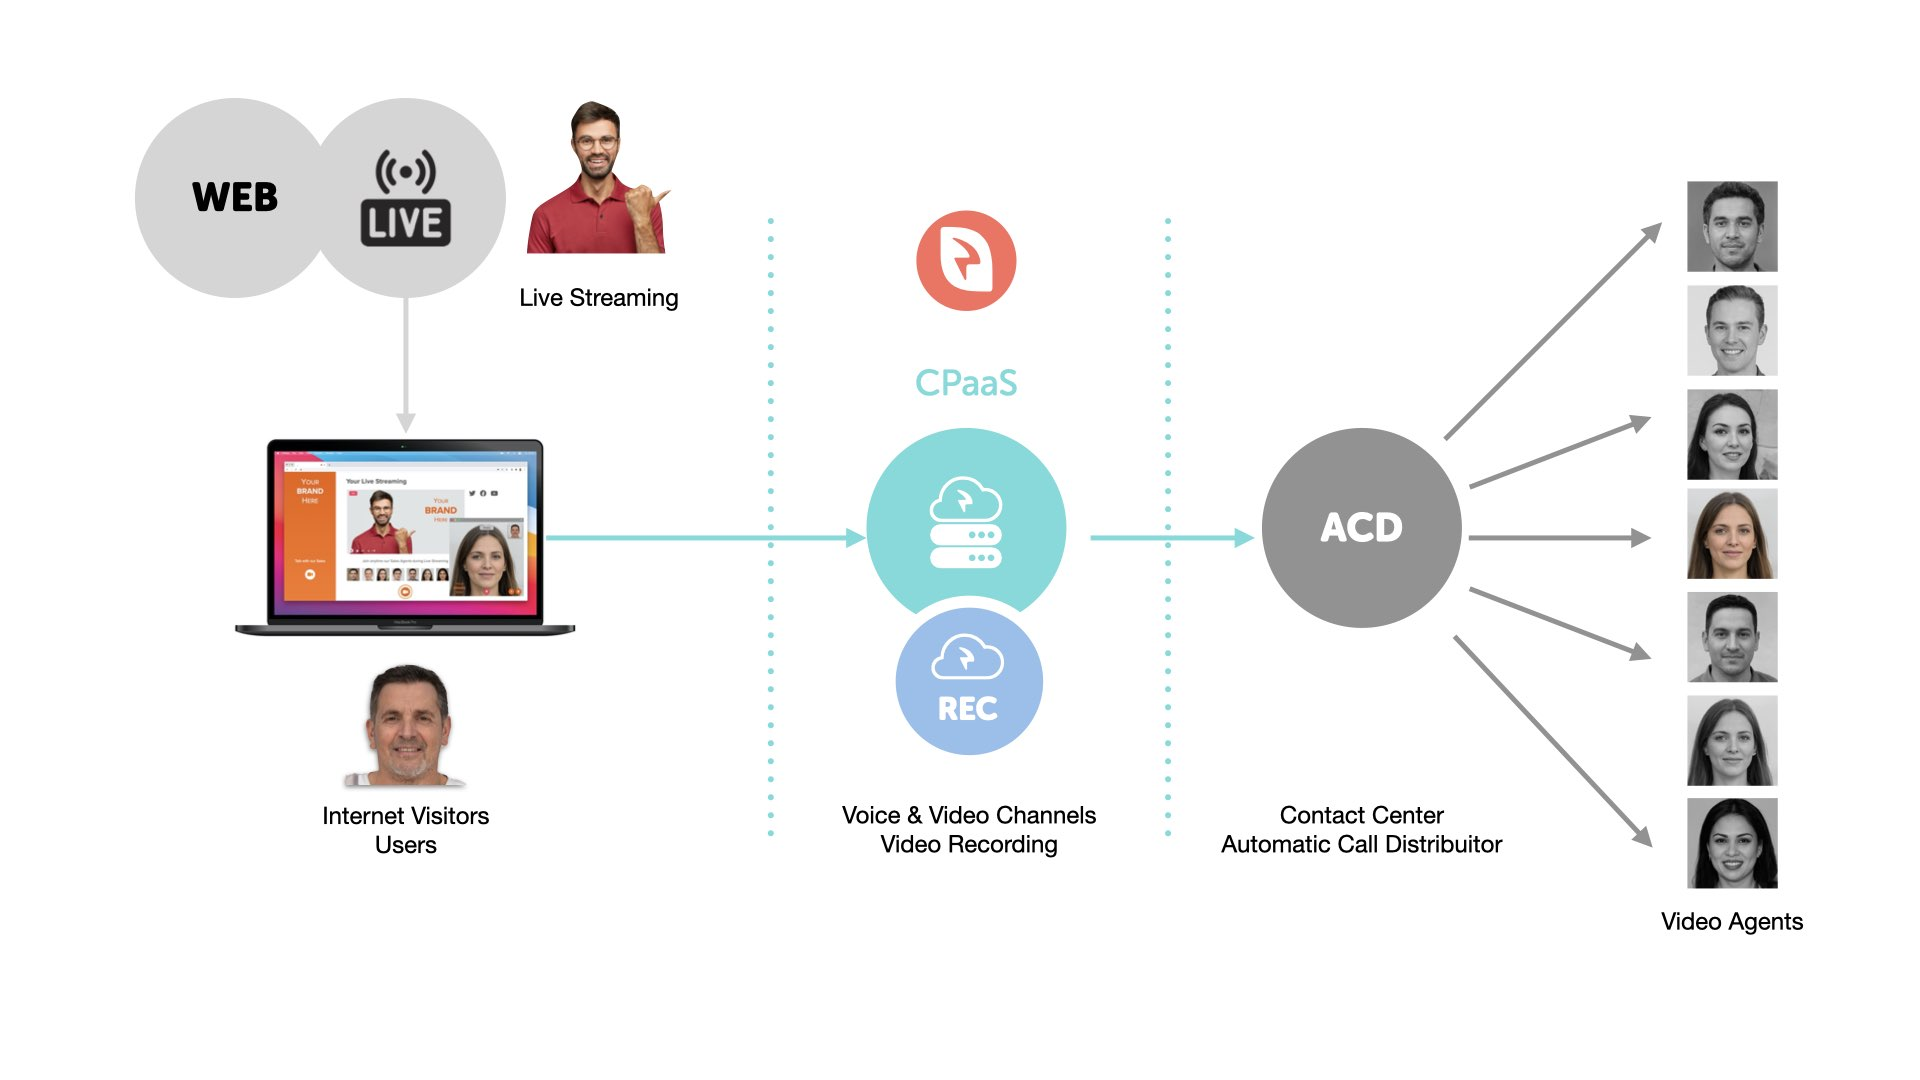
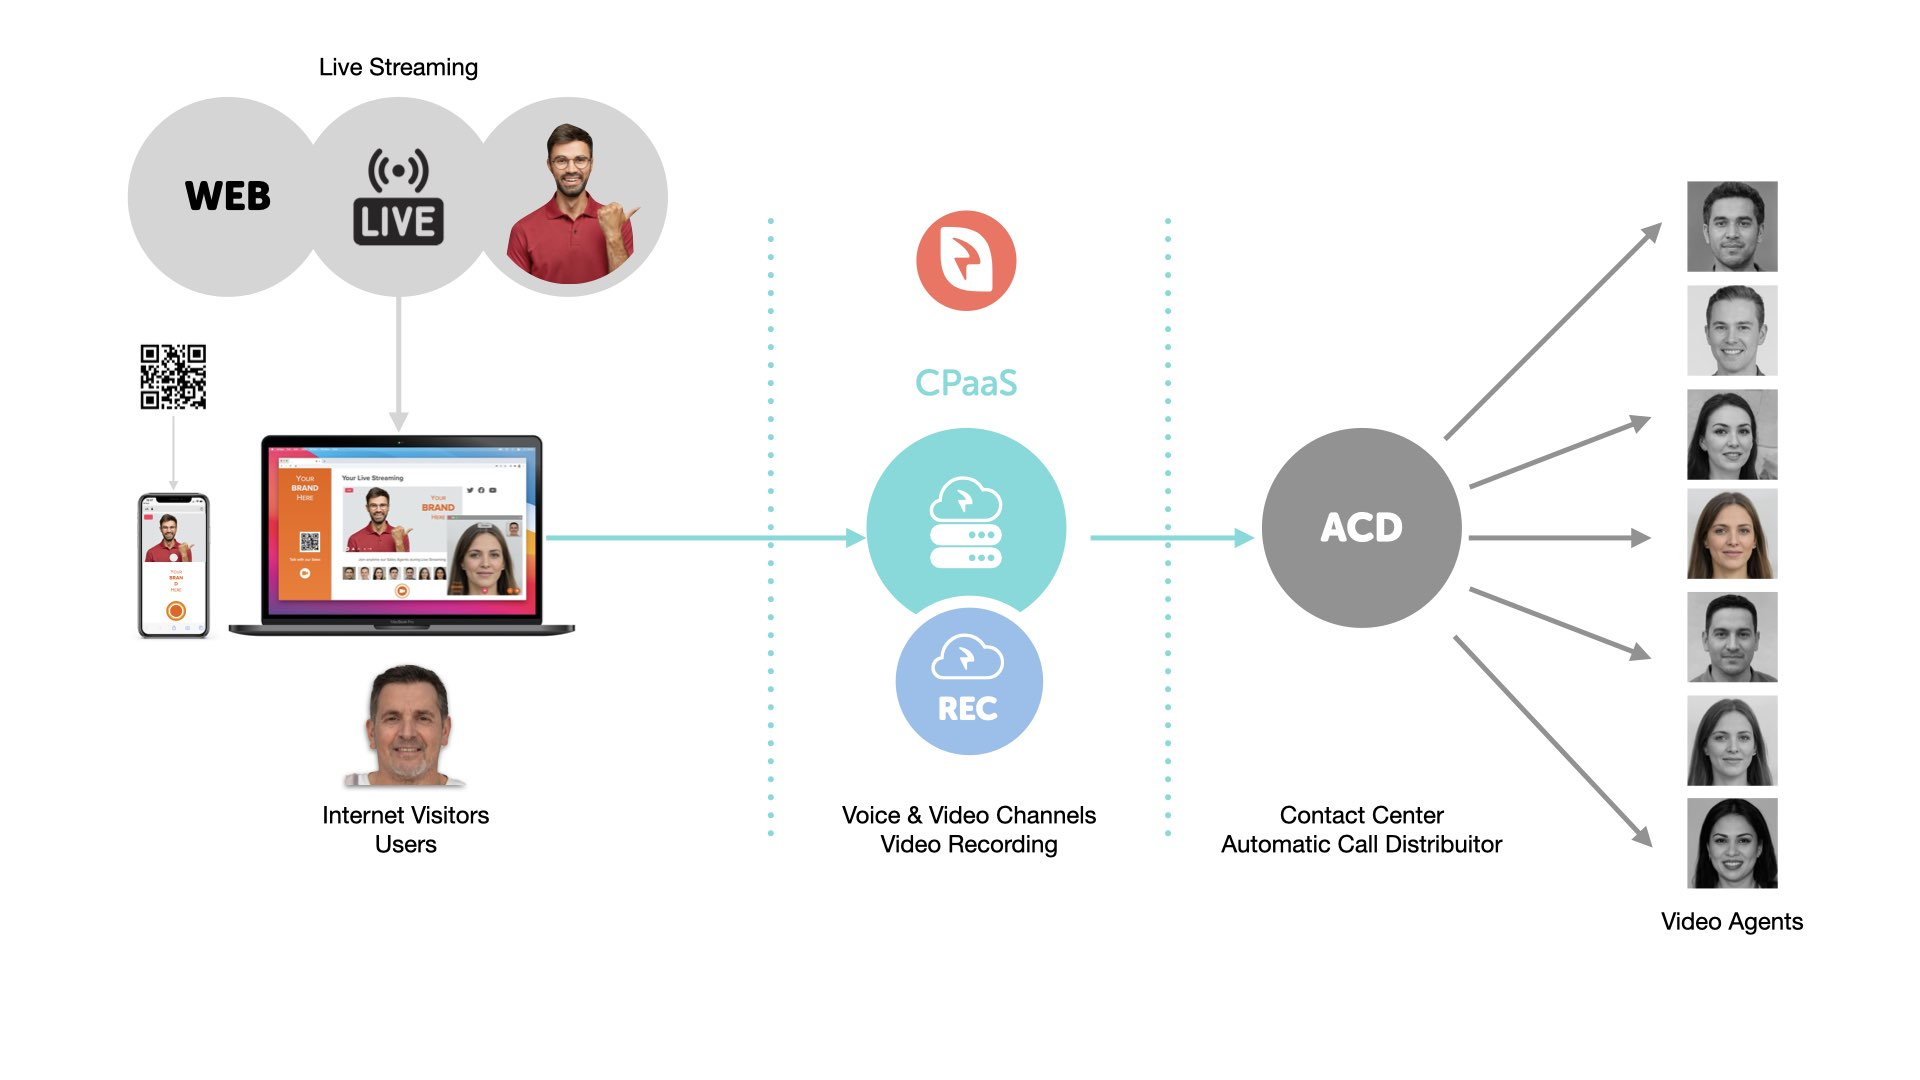
New Publish [07/11/2020 00:18]

diff --git a/post/marketing/landing-web-page-with-video-call-queueing/index.html b/post/marketing/landing-web-page-with-video-call-queueing/index.html
@@ -25,7 +25,7 @@
         <meta name="twitter:site" content="@https://twitter.com/ivrpowers" />
         <meta name="twitter:creator" content="@https://twitter.com/ivrpowers" />
         <meta name="twitter:title" content="Landing Page with Video Call Queueing" />
-        <meta name="twitter:description" content="Video RTC Use Case" />
+        <meta name="twitter:description" content="Use Case" />
         <meta name="twitter:url" content="https://blog.ivrpowers.com/post/marketing/landing-web-page-with-video-call-queueing/" />
     
 
@@ -41,7 +41,7 @@
     
 
     
-        <meta name="description" content="Video RTC Use Case" />
+        <meta name="description" content="Use Case" />
     
 
     
@@ -72,7 +72,7 @@
           "@id": "https://blog.ivrpowers.com/post/marketing/landing-web-page-with-video-call-queueing/"
         },
         "headline": "Landing Page with Video Call Queueing",
-        "description": "Video RTC Use Case",
+        "description": "Use Case",
         "author": {
             "@type": "Person",
             "name": "IVRPowers Team",
@@ -104,7 +104,7 @@
         },
         "datePublished": "2020-11-05",
         "dateModified": "2020-11-05",
-        "wordCount": 208,
+        "wordCount": 233,
         "keywords": ["rtc","videortc","cx","webrtc","videocall"] 
     }
     </script>
@@ -177,7 +177,7 @@ html{font-family:sans-serif;line-height:1.15;-ms-text-size-adjust:100%;-webkit-t
 
   			<header class="post-header">
   				<span class="post-meta">
-						<span class="post-date">5 Nov 2020</span> <span class="reading-time">| <span class="estimated-reading-time">1 min.</span> (<span class="word-count">208</span> words)</span></span>
+						<span class="post-date">5 Nov 2020</span> <span class="reading-time">| <span class="estimated-reading-time">2 min.</span> (<span class="word-count">233</span> words)</span></span>
   				</span>
   				<div class="clear"></div>
   				<h1 class="post-title">Landing Page with Video Call Queueing</h1>
@@ -208,11 +208,19 @@ html{font-family:sans-serif;line-height:1.15;-ms-text-size-adjust:100%;-webkit-t
 
 <p>Web Responsive design will allow to generate a video call interaction from a side button or inside the landing page. This video call can be popup or full screen according to your communication approach.</p>
 
+<blockquote>
+<p>Landing pages or Business Website receive visits from your customers at anytime.</p>
+</blockquote>
+
 <h2 id="mobile-devices-view">Mobile Devices View</h2>
 
 <p><img src="/postimages/marketing/slides-2020-12.018.jpeg" alt="Landing Web Page &amp; Video Call" /></p>
 
 <p>We recommend a web responsive design for your landing page, both Live Streaming and Video Calling must run directly on most mobile screens without any app or plugin.</p>
+
+<blockquote>
+<p>Scan-to-Video Call with QR code can help users to connect faster without app.</p>
+</blockquote>
 
 <h1 id="streamline-your-business-communications">Streamline your business communications.</h1>
 
@@ -274,7 +282,7 @@ html{font-family:sans-serif;line-height:1.15;-ms-text-size-adjust:100%;-webkit-t
 							<span class="post-nav-icon"><i class="icon-arrow-left"></i></span>
 							<span class="post-nav-info">
 								<h4 class="post-nav-title">Live Streaming with Video Call Queueing</h4>
-								<p class="post-nav-excerpt">Video RTC Use Case&hellip;</p>
+								<p class="post-nav-excerpt">Use Case&hellip;</p>
 							</span>
 						</section>
 					</a>

diff --git a/post/marketing/live-streaming-event-with-video-call-queueing/index.html b/post/marketing/live-streaming-event-with-video-call-queueing/index.html
@@ -25,7 +25,7 @@
         <meta name="twitter:site" content="@https://twitter.com/ivrpowers" />
         <meta name="twitter:creator" content="@https://twitter.com/ivrpowers" />
         <meta name="twitter:title" content="Live Streaming with Video Call Queueing" />
-        <meta name="twitter:description" content="Video RTC Use Case" />
+        <meta name="twitter:description" content="Use Case" />
         <meta name="twitter:url" content="https://blog.ivrpowers.com/post/marketing/live-streaming-event-with-video-call-queueing/" />
     
 
@@ -41,7 +41,7 @@
     
 
     
-        <meta name="description" content="Video RTC Use Case" />
+        <meta name="description" content="Use Case" />
     
 
     
@@ -72,7 +72,7 @@
           "@id": "https://blog.ivrpowers.com/post/marketing/live-streaming-event-with-video-call-queueing/"
         },
         "headline": "Live Streaming with Video Call Queueing",
-        "description": "Video RTC Use Case",
+        "description": "Use Case",
         "author": {
             "@type": "Person",
             "name": "IVRPowers Team",
@@ -104,7 +104,7 @@
         },
         "datePublished": "2020-11-05",
         "dateModified": "2020-11-05",
-        "wordCount": 217,
+        "wordCount": 242,
         "keywords": ["rtc","videortc","cx","webrtc","videocall"] 
     }
     </script>
@@ -177,7 +177,7 @@ html{font-family:sans-serif;line-height:1.15;-ms-text-size-adjust:100%;-webkit-t
 
   			<header class="post-header">
   				<span class="post-meta">
-						<span class="post-date">5 Nov 2020</span> <span class="reading-time">| <span class="estimated-reading-time">2 min.</span> (<span class="word-count">217</span> words)</span></span>
+						<span class="post-date">5 Nov 2020</span> <span class="reading-time">| <span class="estimated-reading-time">2 min.</span> (<span class="word-count">242</span> words)</span></span>
   				</span>
   				<div class="clear"></div>
   				<h1 class="post-title">Live Streaming with Video Call Queueing</h1>
@@ -208,11 +208,19 @@ html{font-family:sans-serif;line-height:1.15;-ms-text-size-adjust:100%;-webkit-t
 
 <p>Web Responsive design will allow to generate a video call interaction from a side button or inside the website. This video call can be popup or full screen according to your communication approach.</p>
 
+<blockquote>
+<p>Live Streaming can be the perfect engaging virtual event for your brand.</p>
+</blockquote>
+
 <h2 id="mobile-devices-view">Mobile Devices View</h2>
 
 <p><img src="/postimages/marketing/slides-2020-12.013.jpeg" alt="Live Streaming &amp; Video Call" /></p>
 
 <p>We recommend a web responsive design for your landing page, both Live Streaming and Video Calling must run directly on most mobile screens without any app or plugin.</p>
+
+<blockquote>
+<p>Scan-to-Video Call with QR code can help users to connect faster without app.</p>
+</blockquote>
 
 <h1 id="streamline-your-business-communications">Streamline your business communications.</h1>
 
@@ -285,7 +293,7 @@ html{font-family:sans-serif;line-height:1.15;-ms-text-size-adjust:100%;-webkit-t
 							<span class="post-nav-icon"><i class="icon-arrow-right"></i></span>
 							<span class="post-nav-info">
 								<h4 class="post-nav-title">Landing Page with Video Call Queueing</h4>
-								<p class="post-nav-excerpt">Video RTC Use Case&hellip;</p>
+								<p class="post-nav-excerpt">Use Case&hellip;</p>
 							</span>
 						</section>
 					</a>

diff --git a/categories/marketing/index.html b/categories/marketing/index.html
@@ -143,7 +143,7 @@ html{font-family:sans-serif;line-height:1.15;-ms-text-size-adjust:100%;-webkit-t
 			<span class="post-date">5 Nov 2020</span>
 		</span>
 		<h2 class="post-title"><a href="https://blog.ivrpowers.com/post/marketing/live-streaming-event-with-video-call-queueing/">Live Streaming with Video Call Queueing</a></h2>
-		<p class="post-excerpt">Video RTC Use Case&hellip;</p>
+		<p class="post-excerpt">Use Case&hellip;</p>
 		<span class="post-more"><a href="https://blog.ivrpowers.com/post/marketing/live-streaming-event-with-video-call-queueing/">Read More <i class="icon-arrow-right"></i></a></span>
 	</div>
 </article>
@@ -163,7 +163,7 @@ html{font-family:sans-serif;line-height:1.15;-ms-text-size-adjust:100%;-webkit-t
 			<span class="post-date">5 Nov 2020</span>
 		</span>
 		<h2 class="post-title"><a href="https://blog.ivrpowers.com/post/marketing/landing-web-page-with-video-call-queueing/">Landing Page with Video Call Queueing</a></h2>
-		<p class="post-excerpt">Video RTC Use Case&hellip;</p>
+		<p class="post-excerpt">Use Case&hellip;</p>
 		<span class="post-more"><a href="https://blog.ivrpowers.com/post/marketing/landing-web-page-with-video-call-queueing/">Read More <i class="icon-arrow-right"></i></a></span>
 	</div>
 </article>

diff --git a/index.html b/index.html
@@ -203,7 +203,7 @@ html{font-family:sans-serif;line-height:1.15;-ms-text-size-adjust:100%;-webkit-t
 			<span class="post-date">5 Nov 2020</span>
 		</span>
 		<h2 class="post-title"><a href="https://blog.ivrpowers.com/post/marketing/live-streaming-event-with-video-call-queueing/">Live Streaming with Video Call Queueing</a></h2>
-		<p class="post-excerpt">Video RTC Use Case&hellip;</p>
+		<p class="post-excerpt">Use Case&hellip;</p>
 		<span class="post-more"><a href="https://blog.ivrpowers.com/post/marketing/live-streaming-event-with-video-call-queueing/">Read More <i class="icon-arrow-right"></i></a></span>
 	</div>
 </article>
@@ -223,7 +223,7 @@ html{font-family:sans-serif;line-height:1.15;-ms-text-size-adjust:100%;-webkit-t
 			<span class="post-date">5 Nov 2020</span>
 		</span>
 		<h2 class="post-title"><a href="https://blog.ivrpowers.com/post/marketing/landing-web-page-with-video-call-queueing/">Landing Page with Video Call Queueing</a></h2>
-		<p class="post-excerpt">Video RTC Use Case&hellip;</p>
+		<p class="post-excerpt">Use Case&hellip;</p>
 		<span class="post-more"><a href="https://blog.ivrpowers.com/post/marketing/landing-web-page-with-video-call-queueing/">Read More <i class="icon-arrow-right"></i></a></span>
 	</div>
 </article>

diff --git a/post/index.html b/post/index.html
@@ -203,7 +203,7 @@ html{font-family:sans-serif;line-height:1.15;-ms-text-size-adjust:100%;-webkit-t
 			<span class="post-date">5 Nov 2020</span>
 		</span>
 		<h2 class="post-title"><a href="https://blog.ivrpowers.com/post/marketing/live-streaming-event-with-video-call-queueing/">Live Streaming with Video Call Queueing</a></h2>
-		<p class="post-excerpt">Video RTC Use Case&hellip;</p>
+		<p class="post-excerpt">Use Case&hellip;</p>
 		<span class="post-more"><a href="https://blog.ivrpowers.com/post/marketing/live-streaming-event-with-video-call-queueing/">Read More <i class="icon-arrow-right"></i></a></span>
 	</div>
 </article>
@@ -223,7 +223,7 @@ html{font-family:sans-serif;line-height:1.15;-ms-text-size-adjust:100%;-webkit-t
 			<span class="post-date">5 Nov 2020</span>
 		</span>
 		<h2 class="post-title"><a href="https://blog.ivrpowers.com/post/marketing/landing-web-page-with-video-call-queueing/">Landing Page with Video Call Queueing</a></h2>
-		<p class="post-excerpt">Video RTC Use Case&hellip;</p>
+		<p class="post-excerpt">Use Case&hellip;</p>
 		<span class="post-more"><a href="https://blog.ivrpowers.com/post/marketing/landing-web-page-with-video-call-queueing/">Read More <i class="icon-arrow-right"></i></a></span>
 	</div>
 </article>

diff --git a/tags/cx/index.html b/tags/cx/index.html
@@ -143,7 +143,7 @@ html{font-family:sans-serif;line-height:1.15;-ms-text-size-adjust:100%;-webkit-t
 			<span class="post-date">5 Nov 2020</span>
 		</span>
 		<h2 class="post-title"><a href="https://blog.ivrpowers.com/post/marketing/live-streaming-event-with-video-call-queueing/">Live Streaming with Video Call Queueing</a></h2>
-		<p class="post-excerpt">Video RTC Use Case&hellip;</p>
+		<p class="post-excerpt">Use Case&hellip;</p>
 		<span class="post-more"><a href="https://blog.ivrpowers.com/post/marketing/live-streaming-event-with-video-call-queueing/">Read More <i class="icon-arrow-right"></i></a></span>
 	</div>
 </article>
@@ -163,7 +163,7 @@ html{font-family:sans-serif;line-height:1.15;-ms-text-size-adjust:100%;-webkit-t
 			<span class="post-date">5 Nov 2020</span>
 		</span>
 		<h2 class="post-title"><a href="https://blog.ivrpowers.com/post/marketing/landing-web-page-with-video-call-queueing/">Landing Page with Video Call Queueing</a></h2>
-		<p class="post-excerpt">Video RTC Use Case&hellip;</p>
+		<p class="post-excerpt">Use Case&hellip;</p>
 		<span class="post-more"><a href="https://blog.ivrpowers.com/post/marketing/landing-web-page-with-video-call-queueing/">Read More <i class="icon-arrow-right"></i></a></span>
 	</div>
 </article>

diff --git a/tags/rtc/index.html b/tags/rtc/index.html
@@ -143,7 +143,7 @@ html{font-family:sans-serif;line-height:1.15;-ms-text-size-adjust:100%;-webkit-t
 			<span class="post-date">5 Nov 2020</span>
 		</span>
 		<h2 class="post-title"><a href="https://blog.ivrpowers.com/post/marketing/live-streaming-event-with-video-call-queueing/">Live Streaming with Video Call Queueing</a></h2>
-		<p class="post-excerpt">Video RTC Use Case&hellip;</p>
+		<p class="post-excerpt">Use Case&hellip;</p>
 		<span class="post-more"><a href="https://blog.ivrpowers.com/post/marketing/live-streaming-event-with-video-call-queueing/">Read More <i class="icon-arrow-right"></i></a></span>
 	</div>
 </article>
@@ -163,7 +163,7 @@ html{font-family:sans-serif;line-height:1.15;-ms-text-size-adjust:100%;-webkit-t
 			<span class="post-date">5 Nov 2020</span>
 		</span>
 		<h2 class="post-title"><a href="https://blog.ivrpowers.com/post/marketing/landing-web-page-with-video-call-queueing/">Landing Page with Video Call Queueing</a></h2>
-		<p class="post-excerpt">Video RTC Use Case&hellip;</p>
+		<p class="post-excerpt">Use Case&hellip;</p>
 		<span class="post-more"><a href="https://blog.ivrpowers.com/post/marketing/landing-web-page-with-video-call-queueing/">Read More <i class="icon-arrow-right"></i></a></span>
 	</div>
 </article>

diff --git a/tags/videocall/index.html b/tags/videocall/index.html
@@ -143,7 +143,7 @@ html{font-family:sans-serif;line-height:1.15;-ms-text-size-adjust:100%;-webkit-t
 			<span class="post-date">5 Nov 2020</span>
 		</span>
 		<h2 class="post-title"><a href="https://blog.ivrpowers.com/post/marketing/live-streaming-event-with-video-call-queueing/">Live Streaming with Video Call Queueing</a></h2>
-		<p class="post-excerpt">Video RTC Use Case&hellip;</p>
+		<p class="post-excerpt">Use Case&hellip;</p>
 		<span class="post-more"><a href="https://blog.ivrpowers.com/post/marketing/live-streaming-event-with-video-call-queueing/">Read More <i class="icon-arrow-right"></i></a></span>
 	</div>
 </article>
@@ -163,7 +163,7 @@ html{font-family:sans-serif;line-height:1.15;-ms-text-size-adjust:100%;-webkit-t
 			<span class="post-date">5 Nov 2020</span>
 		</span>
 		<h2 class="post-title"><a href="https://blog.ivrpowers.com/post/marketing/landing-web-page-with-video-call-queueing/">Landing Page with Video Call Queueing</a></h2>
-		<p class="post-excerpt">Video RTC Use Case&hellip;</p>
+		<p class="post-excerpt">Use Case&hellip;</p>
 		<span class="post-more"><a href="https://blog.ivrpowers.com/post/marketing/landing-web-page-with-video-call-queueing/">Read More <i class="icon-arrow-right"></i></a></span>
 	</div>
 </article>

diff --git a/tags/videortc/index.html b/tags/videortc/index.html
@@ -143,7 +143,7 @@ html{font-family:sans-serif;line-height:1.15;-ms-text-size-adjust:100%;-webkit-t
 			<span class="post-date">5 Nov 2020</span>
 		</span>
 		<h2 class="post-title"><a href="https://blog.ivrpowers.com/post/marketing/live-streaming-event-with-video-call-queueing/">Live Streaming with Video Call Queueing</a></h2>
-		<p class="post-excerpt">Video RTC Use Case&hellip;</p>
+		<p class="post-excerpt">Use Case&hellip;</p>
 		<span class="post-more"><a href="https://blog.ivrpowers.com/post/marketing/live-streaming-event-with-video-call-queueing/">Read More <i class="icon-arrow-right"></i></a></span>
 	</div>
 </article>
@@ -163,7 +163,7 @@ html{font-family:sans-serif;line-height:1.15;-ms-text-size-adjust:100%;-webkit-t
 			<span class="post-date">5 Nov 2020</span>
 		</span>
 		<h2 class="post-title"><a href="https://blog.ivrpowers.com/post/marketing/landing-web-page-with-video-call-queueing/">Landing Page with Video Call Queueing</a></h2>
-		<p class="post-excerpt">Video RTC Use Case&hellip;</p>
+		<p class="post-excerpt">Use Case&hellip;</p>
 		<span class="post-more"><a href="https://blog.ivrpowers.com/post/marketing/landing-web-page-with-video-call-queueing/">Read More <i class="icon-arrow-right"></i></a></span>
 	</div>
 </article>

diff --git a/tags/webrtc/index.html b/tags/webrtc/index.html
@@ -143,7 +143,7 @@ html{font-family:sans-serif;line-height:1.15;-ms-text-size-adjust:100%;-webkit-t
 			<span class="post-date">5 Nov 2020</span>
 		</span>
 		<h2 class="post-title"><a href="https://blog.ivrpowers.com/post/marketing/live-streaming-event-with-video-call-queueing/">Live Streaming with Video Call Queueing</a></h2>
-		<p class="post-excerpt">Video RTC Use Case&hellip;</p>
+		<p class="post-excerpt">Use Case&hellip;</p>
 		<span class="post-more"><a href="https://blog.ivrpowers.com/post/marketing/live-streaming-event-with-video-call-queueing/">Read More <i class="icon-arrow-right"></i></a></span>
 	</div>
 </article>
@@ -163,7 +163,7 @@ html{font-family:sans-serif;line-height:1.15;-ms-text-size-adjust:100%;-webkit-t
 			<span class="post-date">5 Nov 2020</span>
 		</span>
 		<h2 class="post-title"><a href="https://blog.ivrpowers.com/post/marketing/landing-web-page-with-video-call-queueing/">Landing Page with Video Call Queueing</a></h2>
-		<p class="post-excerpt">Video RTC Use Case&hellip;</p>
+		<p class="post-excerpt">Use Case&hellip;</p>
 		<span class="post-more"><a href="https://blog.ivrpowers.com/post/marketing/landing-web-page-with-video-call-queueing/">Read More <i class="icon-arrow-right"></i></a></span>
 	</div>
 </article>

diff --git a/post/general/about-interactive-powers/index.html b/post/general/about-interactive-powers/index.html
@@ -257,7 +257,7 @@ html{font-family:sans-serif;line-height:1.15;-ms-text-size-adjust:100%;-webkit-t
 							<span class="post-nav-icon"><i class="icon-arrow-right"></i></span>
 							<span class="post-nav-info">
 								<h4 class="post-nav-title">Live Streaming with Video Call Queueing</h4>
-								<p class="post-nav-excerpt">Video RTC Use Case&hellip;</p>
+								<p class="post-nav-excerpt">Use Case&hellip;</p>
 							</span>
 						</section>
 					</a>

diff --git a/post/products/video-rtc-call-transfer/index.html b/post/products/video-rtc-call-transfer/index.html
@@ -286,7 +286,7 @@ html{font-family:sans-serif;line-height:1.15;-ms-text-size-adjust:100%;-webkit-t
 							<span class="post-nav-icon"><i class="icon-arrow-left"></i></span>
 							<span class="post-nav-info">
 								<h4 class="post-nav-title">Landing Page with Video Call Queueing</h4>
-								<p class="post-nav-excerpt">Video RTC Use Case&hellip;</p>
+								<p class="post-nav-excerpt">Use Case&hellip;</p>
 							</span>
 						</section>
 					</a>
